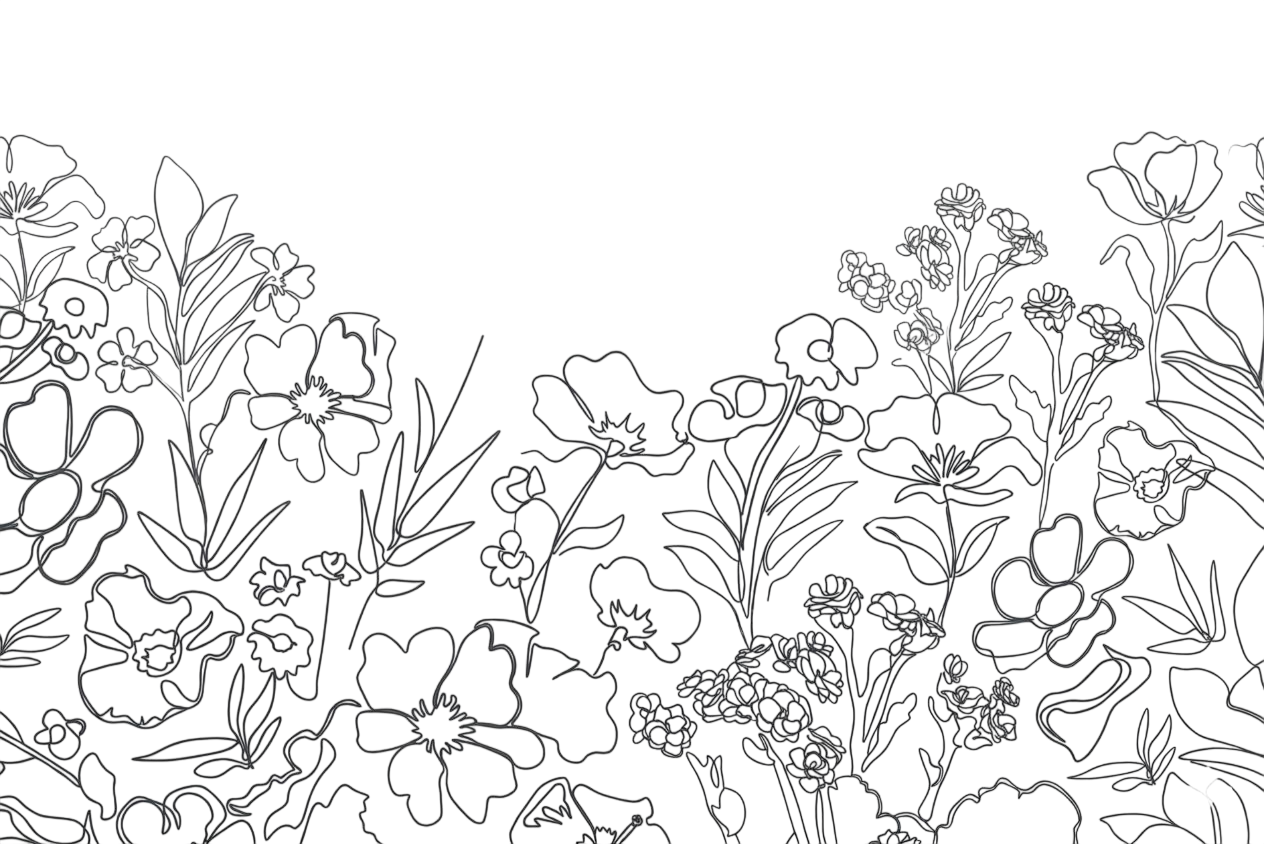
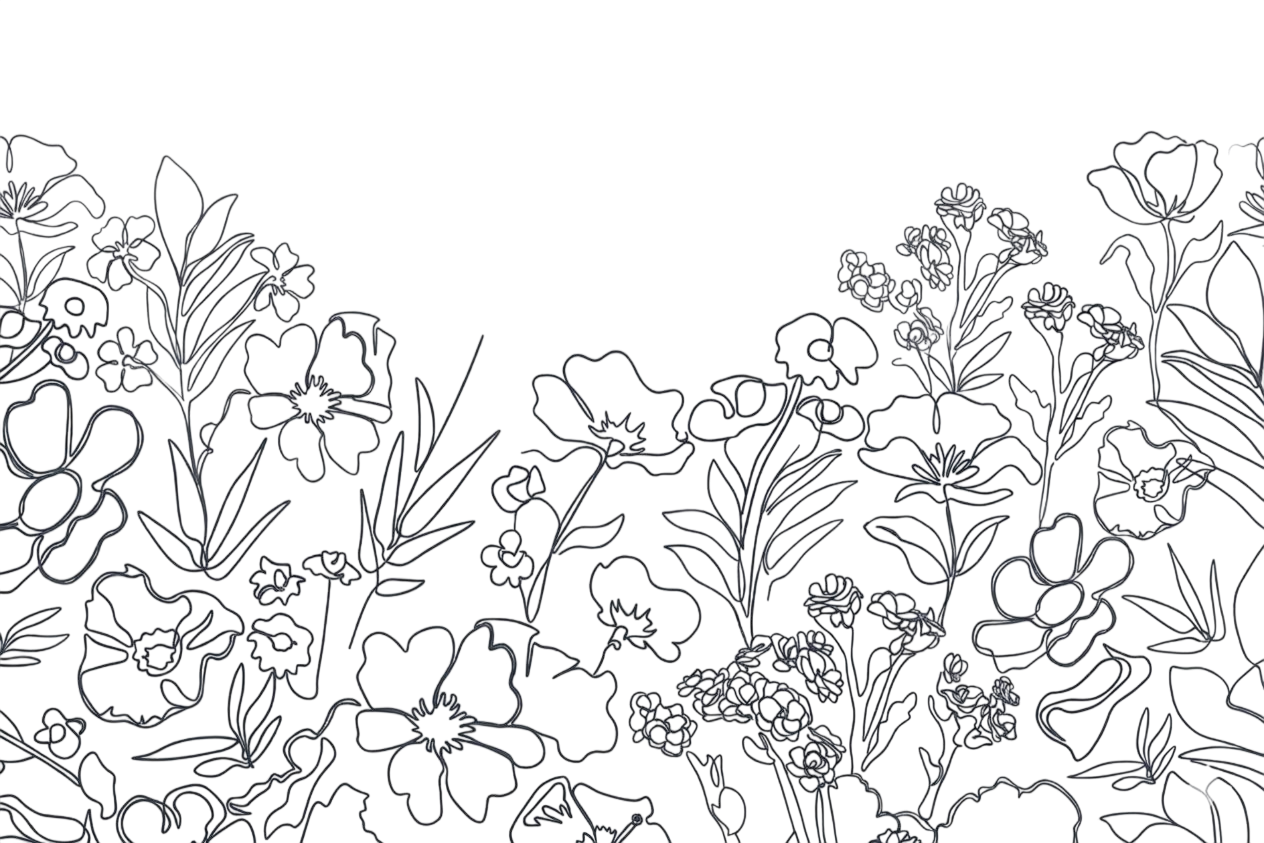
feat: Update event detail components and add ICS file for wedding events

diff --git a/src/components/nikah-details.tsx b/src/components/nikah-details.tsx
@@ -1,95 +1,5 @@
 import { motion } from "framer-motion";
 
-function formatIcsDate(
-    year: number,
-    month: number,
-    day: number,
-    hour: number,
-    minute: number,
-) {
-    const pad = (n: number) => String(n).padStart(2, "0");
-    return `${year}${pad(month)}${pad(day)}T${pad(hour)}${pad(minute)}00`;
-}
-
-function downloadAllEventsIcs() {
-    const icsEvents = [
-        {
-            title: "Majlis Khatam Al-Quran dan Majlis Berbedak Siang",
-            year: 2026,
-            month: 12,
-            day: 25,
-            startHour: 14,
-            startMinute: 15,
-            endHour: 18,
-            endMinute: 0,
-            location: "Rumah Pengantin Perempuan",
-        },
-        {
-            title: "Majlis Malam Berbedak dan Majlis Berinai",
-            year: 2026,
-            month: 12,
-            day: 26,
-            startHour: 19,
-            startMinute: 30,
-            endHour: 23,
-            endMinute: 0,
-            location: "Rumah Pengantin Perempuan",
-        },
-        {
-            title: "Majlis Menerima Berian dan Majlis Akad Nikah",
-            year: 2026,
-            month: 12,
-            day: 27,
-            startHour: 14,
-            startMinute: 0,
-            endHour: 18,
-            endMinute: 0,
-            location: "The Garden's Veranda",
-        },
-        {
-            title: "Majlis Bersanding",
-            year: 2026,
-            month: 12,
-            day: 28,
-            startHour: 19,
-            startMinute: 15,
-            endHour: 23,
-            endMinute: 0,
-            location: "Tarindak D'Polo",
-        },
-    ];
-    const vevents = icsEvents
-        .map((e, i) =>
-            [
-                "BEGIN:VEVENT",
-                `UID:izyan-adam-2026-${i + 1}@wedding`,
-                `DTSTART;TZID=Asia/Brunei:${formatIcsDate(e.year, e.month, e.day, e.startHour, e.startMinute)}`,
-                `DTEND;TZID=Asia/Brunei:${formatIcsDate(e.year, e.month, e.day, e.endHour, e.endMinute)}`,
-                `SUMMARY:${e.title}`,
-                `LOCATION:${e.location}`,
-                "DESCRIPTION:Perkahwinan Dayangku Izyan Naqiyah & Nik Adam Danish",
-                "END:VEVENT",
-            ].join("\r\n"),
-        )
-        .join("\r\n");
-    const ics = [
-        "BEGIN:VCALENDAR",
-        "VERSION:2.0",
-        "PRODID:-//Izyan & Adam Wedding//EN",
-        "CALSCALE:GREGORIAN",
-        "METHOD:PUBLISH",
-        vevents,
-        "END:VCALENDAR",
-    ].join("\r\n");
-    const blob = new Blob([ics], { type: "text/calendar;charset=utf-8" });
-    const url = URL.createObjectURL(blob);
-    const a = document.createElement("a");
-    a.href = url;
-    a.download = "majlis-izyan-adam-2026.ics";
-    a.click();
-    URL.revokeObjectURL(url);
-}
-
 /**
  * Ornate floral border used in the invitation section.
  * Mimics the rose-and-stem decorations visible in the Canva design (Image 6).
@@ -418,15 +328,16 @@ export default function NikahDetails({
                         <br />
                         Majlis-Majlis
                     </a>
-                    <button
+                    <a
+                        href="/majlis-izyan-adam-2026.ics"
+                        download="majlis-izyan-adam-2026.ics"
                         className="flex-1 border border-[#C4A882]/50 px-4 py-3 text-center text-[10px] leading-snug tracking-[0.18em] text-[#C4A882] uppercase transition-colors hover:border-[#C4A882] hover:text-[#F0E6D8] active:opacity-80 md:text-sm lg:text-base"
-                        onClick={downloadAllEventsIcs}
                         aria-label="Simpan tarikh dalam kalendar"
                     >
                         Simpan Tarikh-Tarikh
                         <br />
                         dalam Kalendar Anda
-                    </button>
+                    </a>
                 </motion.div>
 
                 {/* Bottom ornate floral border */}

diff --git a/src/pages/Story.tsx b/src/pages/Story.tsx
@@ -142,7 +142,7 @@ const eventBersanding: EventDetailProps = {
     themeColor: "#1A2744",
     themeLabel: "Navy Blue / Biru Gelap",
     description: [
-        "Majlis Bersanding adalah hari di mana pasangan mempelai diraikan sebagai 'Raja Sehari' di atas pelamin yang indah. Majlis ini bertujuan untuk mengumumkan dan meraikan penyatuan pasangan kepada semua saudara-mara, rakan-rakan, dan masyarakat umum.",
+        "Majlis Bersanding adalah hari di mana pasangan mempelai diraikan sebagai 'Raja Sehari' di atas pelamin yang indah setelah di ijab qabulkan. Majlis ini bertujuan untuk mengumumkan dan meraikan penyatuan pasangan kepada semua saudara-mara, rakan-rakan, dan saudara-mara dan rakan-rakan.",
     ],
     dresscode: {
         lelaki: "Baju Melayu",
@@ -150,7 +150,7 @@ const eventBersanding: EventDetailProps = {
     },
     aturcara: [
         { time: "7:15 MLM", item: "Menerima Jemputan" },
-        { time: "8:15 MLM", item: "Perarakan Masuk Diraja Sehari" },
+        { time: "8:15 MLM", item: "Perarakan Masuk Raja Sehari" },
         { time: "", item: "Iringan Persembahan Tausyeh" },
         {
             time: "",
@@ -198,15 +198,32 @@ export default function Story({ onEnter }: { onEnter?: () => void }) {
             <div className="relative">
                 {/* Left side flowers — tiled vertically */}
                 <div
-                    className="pointer-events-none absolute top-0 bottom-0 left-0 z-0 w-36 overflow-hidden"
+                    className="pointer-events-none absolute top-0 bottom-0 left-0 z-0 w-30 overflow-hidden md:w-44 lg:w-55"
                     style={{ opacity: 0.15 }}
                     aria-hidden="true"
                 >
+                    {/* Mobile: tile 70px fits in 80px strip — no clipping */}
                     <div
+                        className="md:hidden"
                         style={{
                             position: "absolute",
                             top: "50%",
-                            left: "10%",
+                            left: "50%",
+                            width: "30000px",
+                            height: "120px",
+                            backgroundImage: "url('/side_flowers.png')",
+                            backgroundRepeat: "repeat-x",
+                            backgroundSize: "auto 120px",
+                            transform: "translate(-50%, -50%) rotate(90deg)",
+                        }}
+                    />
+                    {/* Tablet: tile 160px fits in 176px strip — no clipping */}
+                    <div
+                        className="hidden md:block lg:hidden"
+                        style={{
+                            position: "absolute",
+                            top: "50%",
+                            left: "50%",
                             width: "30000px",
                             height: "200px",
                             backgroundImage: "url('/side_flowers.png')",
@@ -215,27 +232,75 @@ export default function Story({ onEnter }: { onEnter?: () => void }) {
                             transform: "translate(-50%, -50%) rotate(90deg)",
                         }}
                     />
-                </div>
-
-                {/* Right side flowers — tiled vertically */}
-                <div
-                    className="pointer-events-none absolute top-0 right-0 bottom-0 z-0 w-36 overflow-hidden"
-                    style={{ opacity: 0.15 }}
-                    aria-hidden="true"
-                >
+                    {/* Laptop: tile 220px fits in 240px strip — no clipping */}
                     <div
+                        className="hidden lg:block"
                         style={{
                             position: "absolute",
                             top: "50%",
-                            left: "90%",
+                            left: "50%",
+                            width: "30000px",
+                            height: "220px",
+                            backgroundImage: "url('/side_flowers.png')",
+                            backgroundRepeat: "repeat-x",
+                            backgroundSize: "auto 220px",
+                            transform: "translate(-50%, -50%) rotate(90deg)",
+                        }}
+                    />
+                </div>
+
+                {/* Right side flowers — mirrored horizontally */}
+                <div
+                    className="pointer-events-none absolute top-0 right-0 bottom-0 z-0 w-30 overflow-hidden md:w-44 lg:w-55"
+                    style={{ opacity: 0.15, transform: "scaleX(-1)" }}
+                    aria-hidden="true"
+                >
+                    {/* Mobile: tile 70px fits in 80px strip — no clipping */}
+                    <div
+                        className="md:hidden"
+                        style={{
+                            position: "absolute",
+                            top: "50%",
+                            left: "50%",
+                            width: "30000px",
+                            height: "120px",
+                            backgroundImage: "url('/side_flowers.png')",
+                            backgroundRepeat: "repeat-x",
+                            backgroundSize: "auto 120px",
+                            transform: "translate(-50%, -50%) rotate(90deg)",
+                        }}
+                    />
+                    {/* Tablet: tile 160px fits in 176px strip — no clipping */}
+                    <div
+                        className="hidden md:block lg:hidden"
+                        style={{
+                            position: "absolute",
+                            top: "50%",
+                            left: "50%",
                             width: "30000px",
                             height: "200px",
                             backgroundImage: "url('/side_flowers.png')",
                             backgroundRepeat: "repeat-x",
                             backgroundSize: "auto 200px",
-                            transform: "translate(-50%, 50%) rotate(-90deg)",
+                            transform: "translate(-50%, -50%) rotate(90deg)",
                         }}
                     />
+                    {/* Laptop: tile 220px fits in 240px strip — no clipping */}
+                    <div
+                        className="hidden lg:block"
+                        style={{
+                            position: "absolute",
+                            top: "50%",
+                            left: "50%",
+                            width: "30000px",
+                            height: "220px",
+                            backgroundImage: "url('/side_flowers.png')",
+                            backgroundRepeat: "repeat-x",
+                            backgroundSize: "auto 220px",
+                            transform: "translate(-50%, -50%) rotate(90deg)",
+                        }}
+                    />
+                    <div />
                 </div>
 
                 <SectionDivider />
@@ -261,7 +326,7 @@ export default function Story({ onEnter }: { onEnter?: () => void }) {
 
                 {/* Footer */}
                 <div className="pt-4 pb-18 text-center text-[12px] leading-relaxed tracking-wide text-[#C4A882] md:text-sm lg:pb-10 lg:text-base">
-                    Direka oleh Nik Adam Danish
+                    Dengan penuh sayang, Izyan &amp; Adam
                 </div>
             </div>
         </div>

diff --git a/src/components/event-detail.tsx b/src/components/event-detail.tsx
@@ -3,45 +3,21 @@ import { motion, AnimatePresence } from "framer-motion";
 
 function GoldLineDivider() {
     return (
-        <svg
-            width="280"
-            height="44"
-            viewBox="0 0 280 44"
-            fill="none"
-            xmlns="http://www.w3.org/2000/svg"
-            aria-hidden="true"
-        >
-            {/* Left line */}
-            <line
-                x1="10"
-                y1="22"
-                x2="124"
-                y2="22"
-                stroke="#C4A882"
-                strokeWidth="0.75"
-                strokeLinecap="round"
-            />
-            {/* Center ornament — kept exactly as FloralDivider */}
-            <circle cx="140" cy="22" r="2.2" fill="#3D2E1E" />
-            <circle
-                cx="140"
-                cy="22"
-                r="4.5"
-                stroke="#3D2E1E"
-                strokeWidth="0.5"
-                fill="none"
-            />
-            {/* Right line */}
-            <line
-                x1="156"
-                y1="22"
-                x2="270"
-                y2="22"
-                stroke="#C4A882"
-                strokeWidth="0.75"
-                strokeLinecap="round"
-            />
-        </svg>
+        <div className="aria-hidden=true flex w-60 items-center gap-3 md:w-80 lg:w-96">
+            <div className="h-px flex-1 bg-[#C4A882]/60" />
+            <svg width="14" height="14" viewBox="0 0 14 14" fill="none">
+                <circle cx="7" cy="7" r="2.2" fill="#3D2E1E" />
+                <circle
+                    cx="7"
+                    cy="7"
+                    r="4.5"
+                    stroke="#3D2E1E"
+                    strokeWidth="0.5"
+                    fill="none"
+                />
+            </svg>
+            <div className="h-px flex-1 bg-[#C4A882]/60" />
+        </div>
     );
 }
 
@@ -119,7 +95,7 @@ export default function EventDetail({
                 </motion.h2>
 
                 {/* Title divider */}
-                <div className="mt-7 flex justify-center">
+                <div className="mt-7 mb-7 flex justify-center">
                     <GoldLineDivider />
                 </div>
 
@@ -165,7 +141,7 @@ export default function EventDetail({
                     </div>
                     <div className="mt-4 flex justify-center">
                         <a
-                            className="border border-[#D4C4AE] px-5 py-2 text-[9px] tracking-[0.3em] whitespace-nowrap text-[#6B5544]/60 uppercase transition-colors hover:border-[#6B5544] hover:text-[#6B5544] active:scale-[0.97]"
+                            className="border border-[#D4C4AE] px-5 py-2 text-[9px] tracking-[0.3em] whitespace-nowrap text-[#6B5544]/60 uppercase transition-colors hover:border-[#6B5544] hover:text-[#6B5544] active:scale-[0.97] md:px-7 md:py-3 md:text-xs lg:text-sm"
                             href={location}
                             target="_blank"
                             rel="noopener noreferrer"
@@ -231,7 +207,7 @@ export default function EventDetail({
                 >
                     <button
                         onClick={() => setDescOpen((v) => !v)}
-                        className="group inline-flex items-center gap-2 border border-[#D4C4AE] px-5 py-2 text-[9px] tracking-[0.3em] text-[#6B5544]/60 uppercase transition-colors hover:border-[#6B5544] hover:text-[#6B5544] active:scale-[0.97]"
+                        className="group inline-flex items-center gap-2 border border-[#D4C4AE] px-5 py-2 text-[9px] tracking-[0.3em] text-[#6B5544]/60 uppercase transition-colors hover:border-[#6B5544] hover:text-[#6B5544] active:scale-[0.97] md:px-7 md:py-3 md:text-xs lg:text-sm"
                         aria-expanded={descOpen}
                     >
                         <span>Tentang Majlis Ini</span>